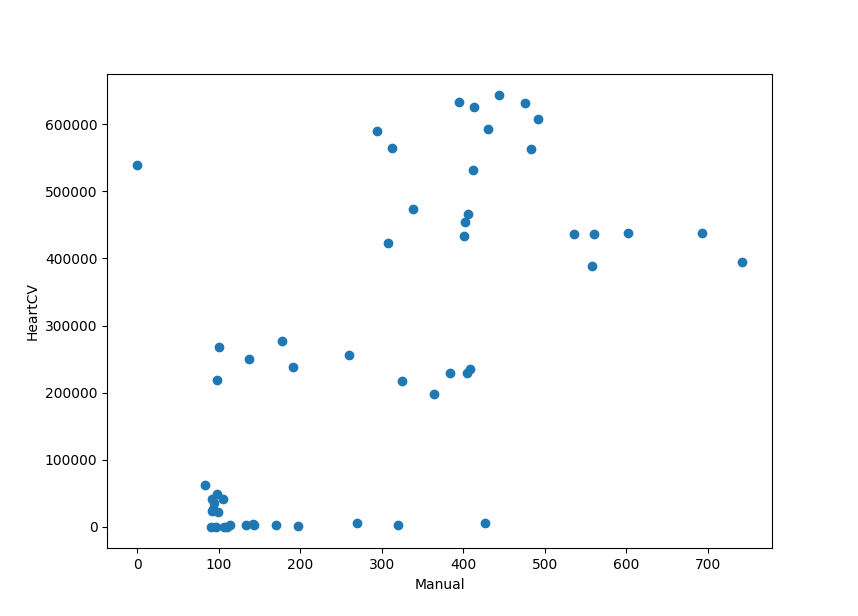
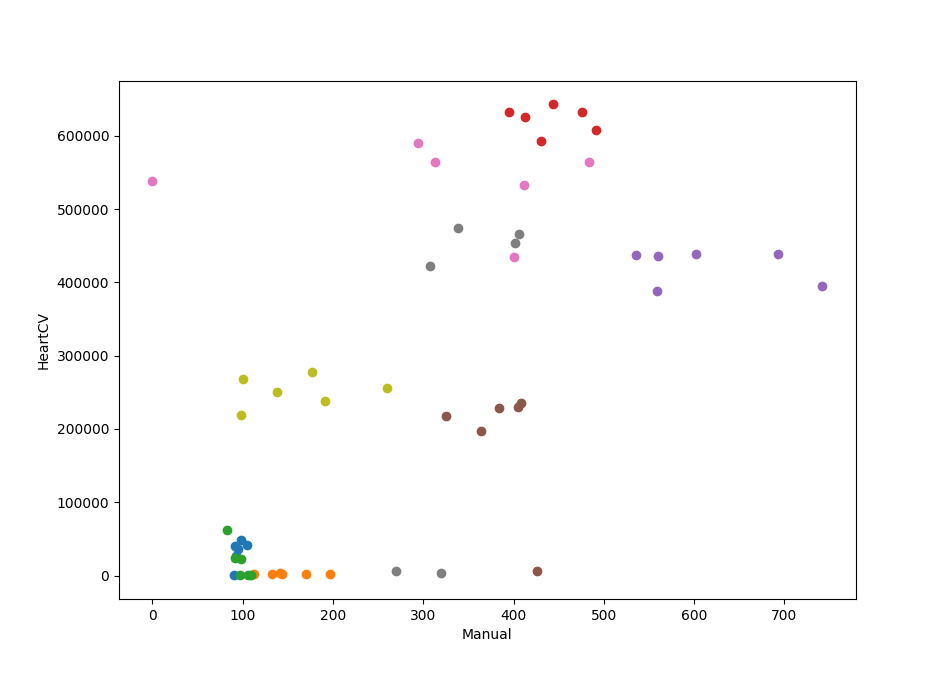
Add comparisons for fd sv

diff --git a/validation/compare_sv_fd.py b/validation/compare_sv_fd.py
@@ -254,9 +254,10 @@ asv.append(aad[:6])
 d,aad,s,aas = ds15
 asv.append(aad[:6])
 
-print(msv, asv)
 
-plt.scatter(msv, asv)
+for mv,av in zip(msv, asv):
+    plt.scatter(mv,av)
+
 plt.xlabel('Manual')
 plt.ylabel('HeartCV')
 plt.show()
